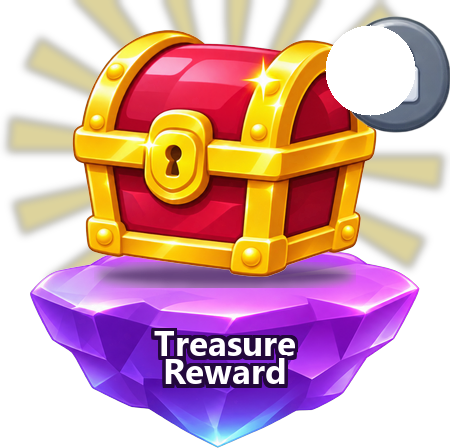
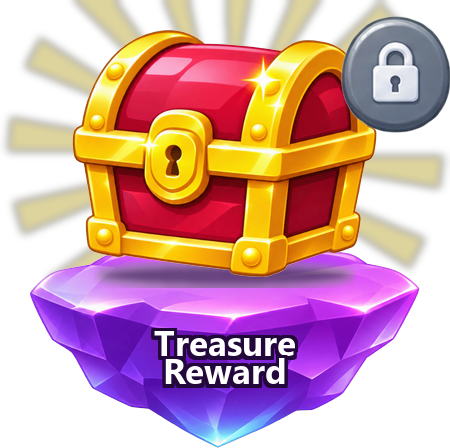
Restore dashboard right stats panel (My Progress, My Streak, My Achievements), fix island badge cutouts, and remove white plank edges

Changed region(s): [[0.7156, 0.0312, 0.9333, 0.2812]]

diff --git a/css/style.css b/css/style.css
@@ -54,11 +54,19 @@ body {
   height: 100vh;
   margin: 0 auto;
   display: grid;
-  grid-template-columns: 240px 1fr 440px;
+  grid-template-columns: 240px minmax(0, 1fr) 390px;
   gap: 16px;
   padding: 16px 20px;
   position: relative;
   z-index: 1;
+}
+
+@media (max-width: 1480px) {
+  .lms-screen-container {
+    grid-template-columns: 220px minmax(0, 1fr) 350px;
+    gap: 12px;
+    padding: 12px 14px;
+  }
 }
 
 /* ==========================================================================
@@ -1632,15 +1640,28 @@ body {
   height: 100%;
 }
 
-/* Subview Expansion Canvas: Hide right sidebar and expand main content */
+/* Subview Expansion Canvas: Hide right sidebar and expand main content ONLY in subviews */
 .lms-screen-container.subview-active,
 .dashboard-viewport.subview-active {
-  grid-template-columns: 240px 1fr !important;
+  grid-template-columns: 240px minmax(0, 1fr) !important;
+}
+
+@media (max-width: 1480px) {
+  .lms-screen-container.subview-active,
+  .dashboard-viewport.subview-active {
+    grid-template-columns: 220px minmax(0, 1fr) !important;
+  }
 }
 
 .lms-screen-container.subview-active .right-stats-panel,
 .dashboard-viewport.subview-active .right-stats-panel {
   display: none !important;
+}
+
+/* Home Dashboard (when subview is NOT active): ALWAYS show right-stats-panel with full widgets */
+.lms-screen-container:not(.subview-active) .right-stats-panel,
+.dashboard-viewport:not(.subview-active) .right-stats-panel {
+  display: flex !important;
 }
 
 .lms-screen-container.subview-active .main-dashboard-panel,

diff --git a/js/app.js b/js/app.js
@@ -13,6 +13,7 @@ document.addEventListener('DOMContentLoaded', () => {
   initLiveClass();
   initFlowFeatures();
   initChapterJourneyFlow();
+  switchView('home');
 });
 
 // ==========================================================================
@@ -167,14 +168,15 @@ function switchView(targetViewId) {
   allViews.forEach(v => v.classList.remove('active'));
   targetEl.classList.add('active');
 
-  // Handle right sidebar visibility & 2-column grid expansion
-  if (viewport) {
+  // Handle right sidebar visibility & 2-column grid expansion (Right panel ONLY on Home Dashboard)
+  const viewports = document.querySelectorAll('.lms-screen-container, .dashboard-viewport');
+  viewports.forEach(vp => {
     if (normalizedId === 'view-home') {
-      viewport.classList.remove('subview-active');
+      vp.classList.remove('subview-active');
     } else {
-      viewport.classList.add('subview-active');
+      vp.classList.add('subview-active');
     }
-  }
+  });
 
   // Update Left Sidebar active nav item (adds green pill .active to the selected nav item)
   navItems.forEach(item => {

diff --git a/index.html b/index.html
@@ -538,11 +538,6 @@
         <div class="syllabus-fox-mascot-container">
           <img src="assets/characters/fox_reading.png" alt="Fox Reading" class="syllabus-fox-character">
         </div>
-
-        <!-- Treehouse in the background on the right -->
-        <div class="syllabus-treehouse-scenery-container">
-          <img src="assets/illustrations/treehouse_exact.png" alt="Treehouse" class="syllabus-treehouse-img">
-        </div>
       </section>
 
       <!-- ====================================================================
